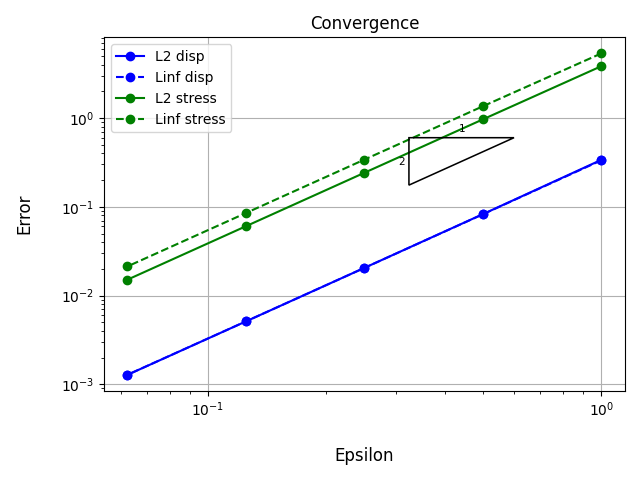
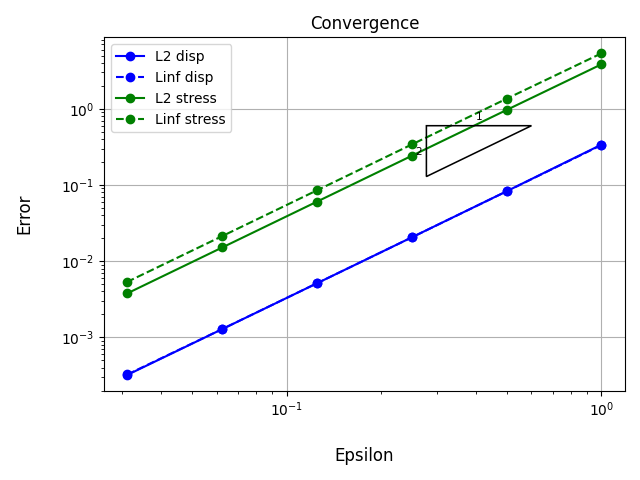
stress for s_xy fixed, first order correction not working yet

diff --git a/xlb/experimental/thermo_mechanical/solid_utils.py b/xlb/experimental/thermo_mechanical/solid_utils.py
@@ -139,8 +139,8 @@ def get_error_norms(current_macroscopics, expected_macroscopics, dx, timestep=0)
     l2_disp = np.sqrt(np.nansum(np.linalg.norm(error_matrix[0:2,:,:], axis=0) ** 2)) * dx
     linf_disp = np.nanmax(np.max(np.abs(error_matrix[0:2,:,:]), axis=0))
     #step 2: handle stress
-    l2_stress = np.sqrt(np.nansum(np.linalg.norm(error_matrix[2:4,:,:], axis=0) ** 2)) * dx
-    linf_stress = np.nanmax(np.max(np.abs(error_matrix[2:4,:,:]), axis=0))
+    l2_stress = np.sqrt(np.nansum(np.linalg.norm(error_matrix[2:5,:,:], axis=0) ** 2)) * dx
+    linf_stress = np.nanmax(np.max(np.abs(error_matrix[2:5,:,:]), axis=0))
     #step 3: output error image 
     #error_inf = np.nanmax(np.abs(error_matrix[2:4, :, :]), axis=0)
     #fields = {"error_inf": error_inf}
@@ -155,7 +155,7 @@ def get_expected_stress(manufactured_displacement, x, y, lamb, mu):
     e_xy = 0.5*(sympy.diff(man_u, y) + sympy.diff(man_v, x))
     s_xx = lamb*(e_xx + e_yy) + 2*mu*e_xx
     s_yy = lamb*(e_xx + e_yy) + 2*mu*e_yy
-    s_xy = lamb*(e_xx + e_yy) + 2*mu*e_xy
+    s_xy = 2*mu*e_xy
     return s_xx, s_yy, s_xy
 
 def restrict_solution_to_domain(array, potential, dx): #ToDo: make more efficient (fancy numpy funcs)

diff --git a/numerical_experiments/convergence_epsilon/convergence_study.py b/numerical_experiments/convergence_epsilon/convergence_study.py
@@ -117,6 +117,6 @@ if __name__ == "__main__":
     print("Final error L2_disp: {}".format(last_norms[1]))
     print("Final error Linf_disp: {}".format(last_norms[2]))
     print("Final error L2_stress: {}".format(last_norms[3]))
-    print("Final erro Linf_stress: {}".format(last_norms[4]))
+    print("Final error Linf_stress: {}".format(last_norms[4]))
     print("in {} timesteps".format(last_norms[0]))
     #write_results(norms_over_time, "results.csv")
